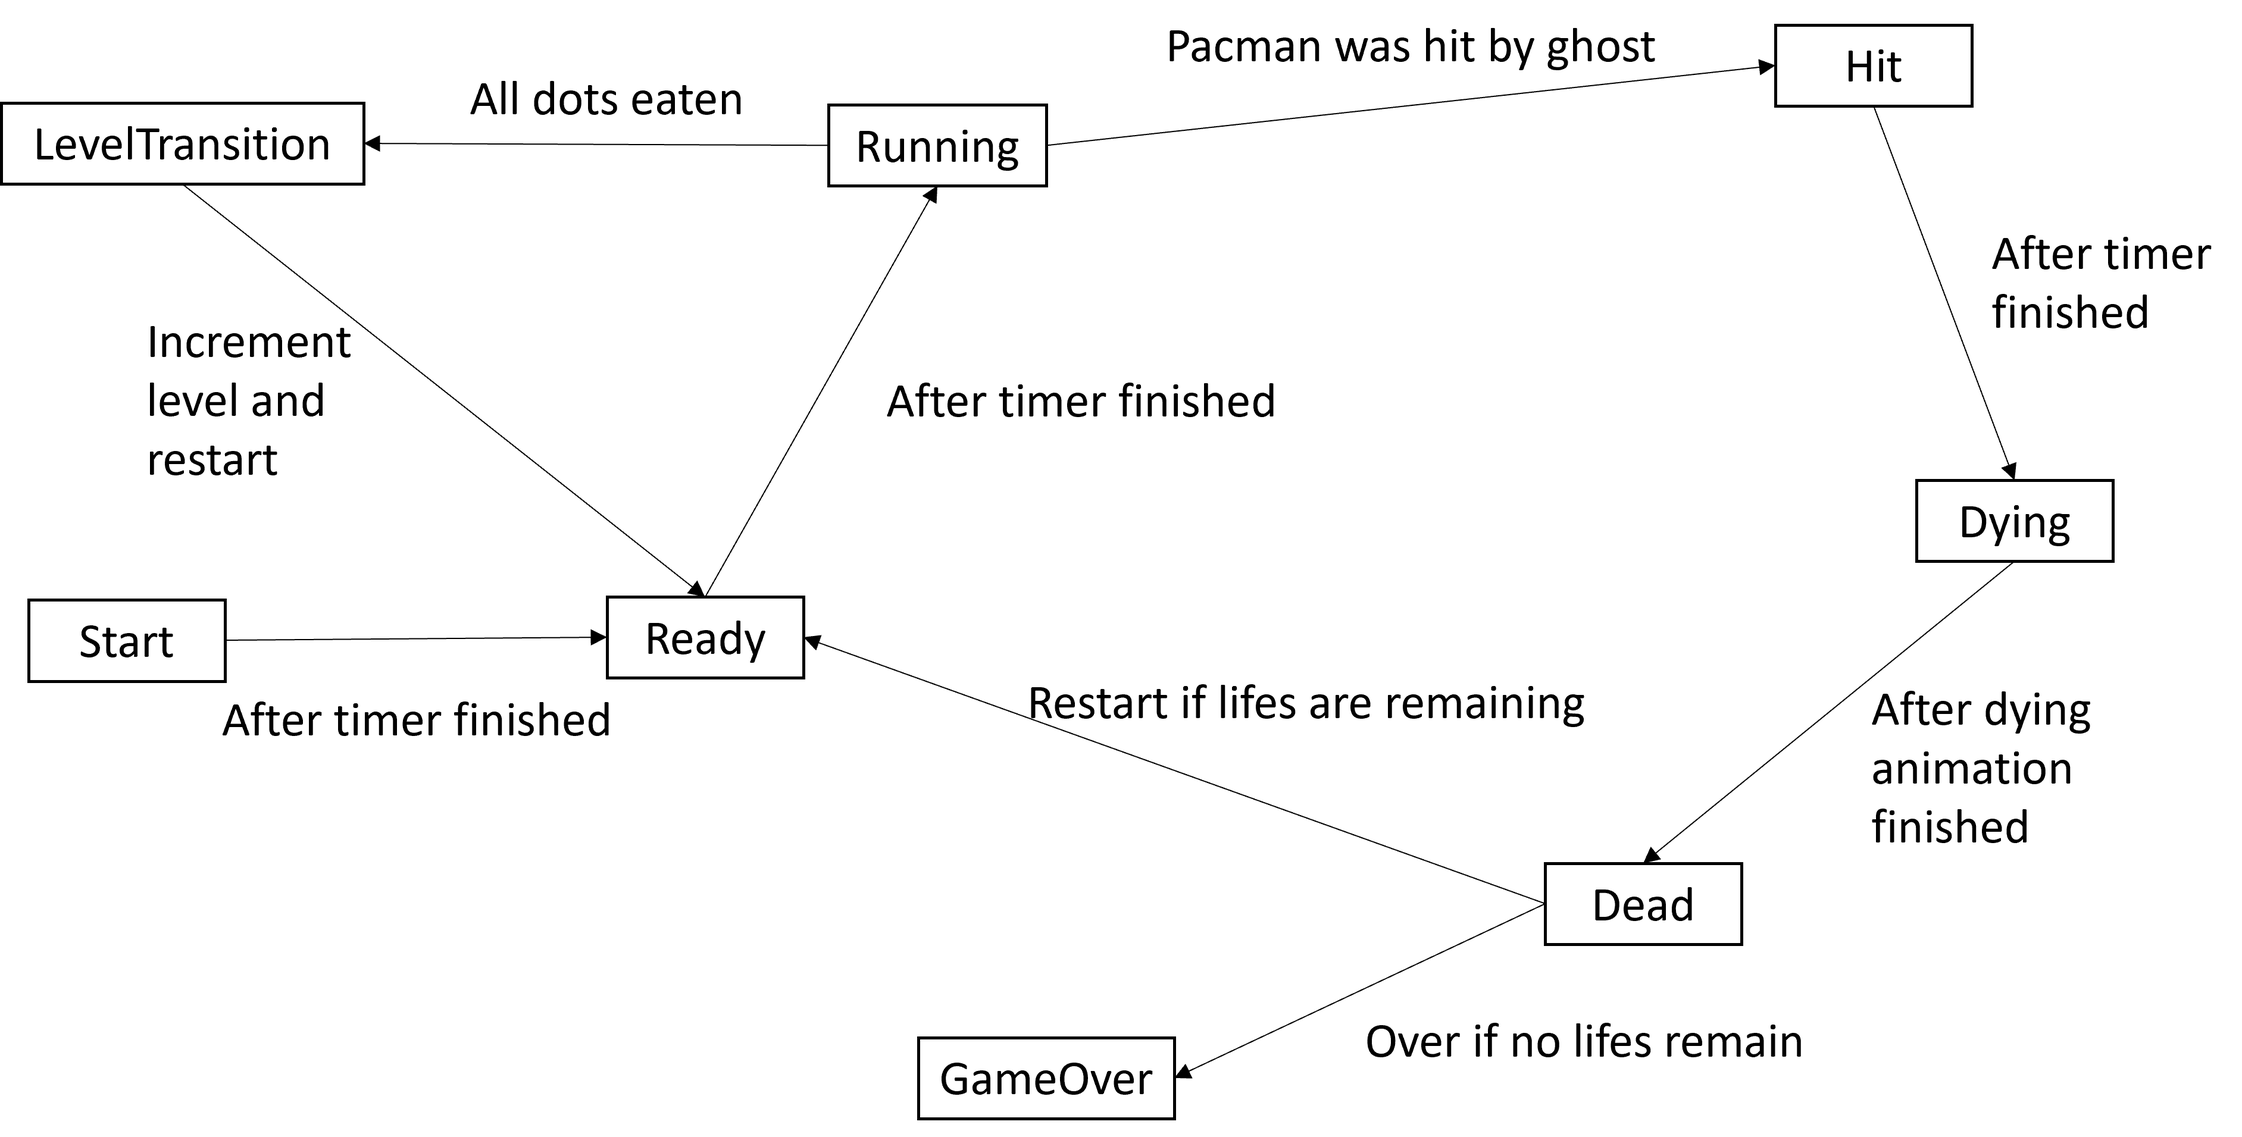
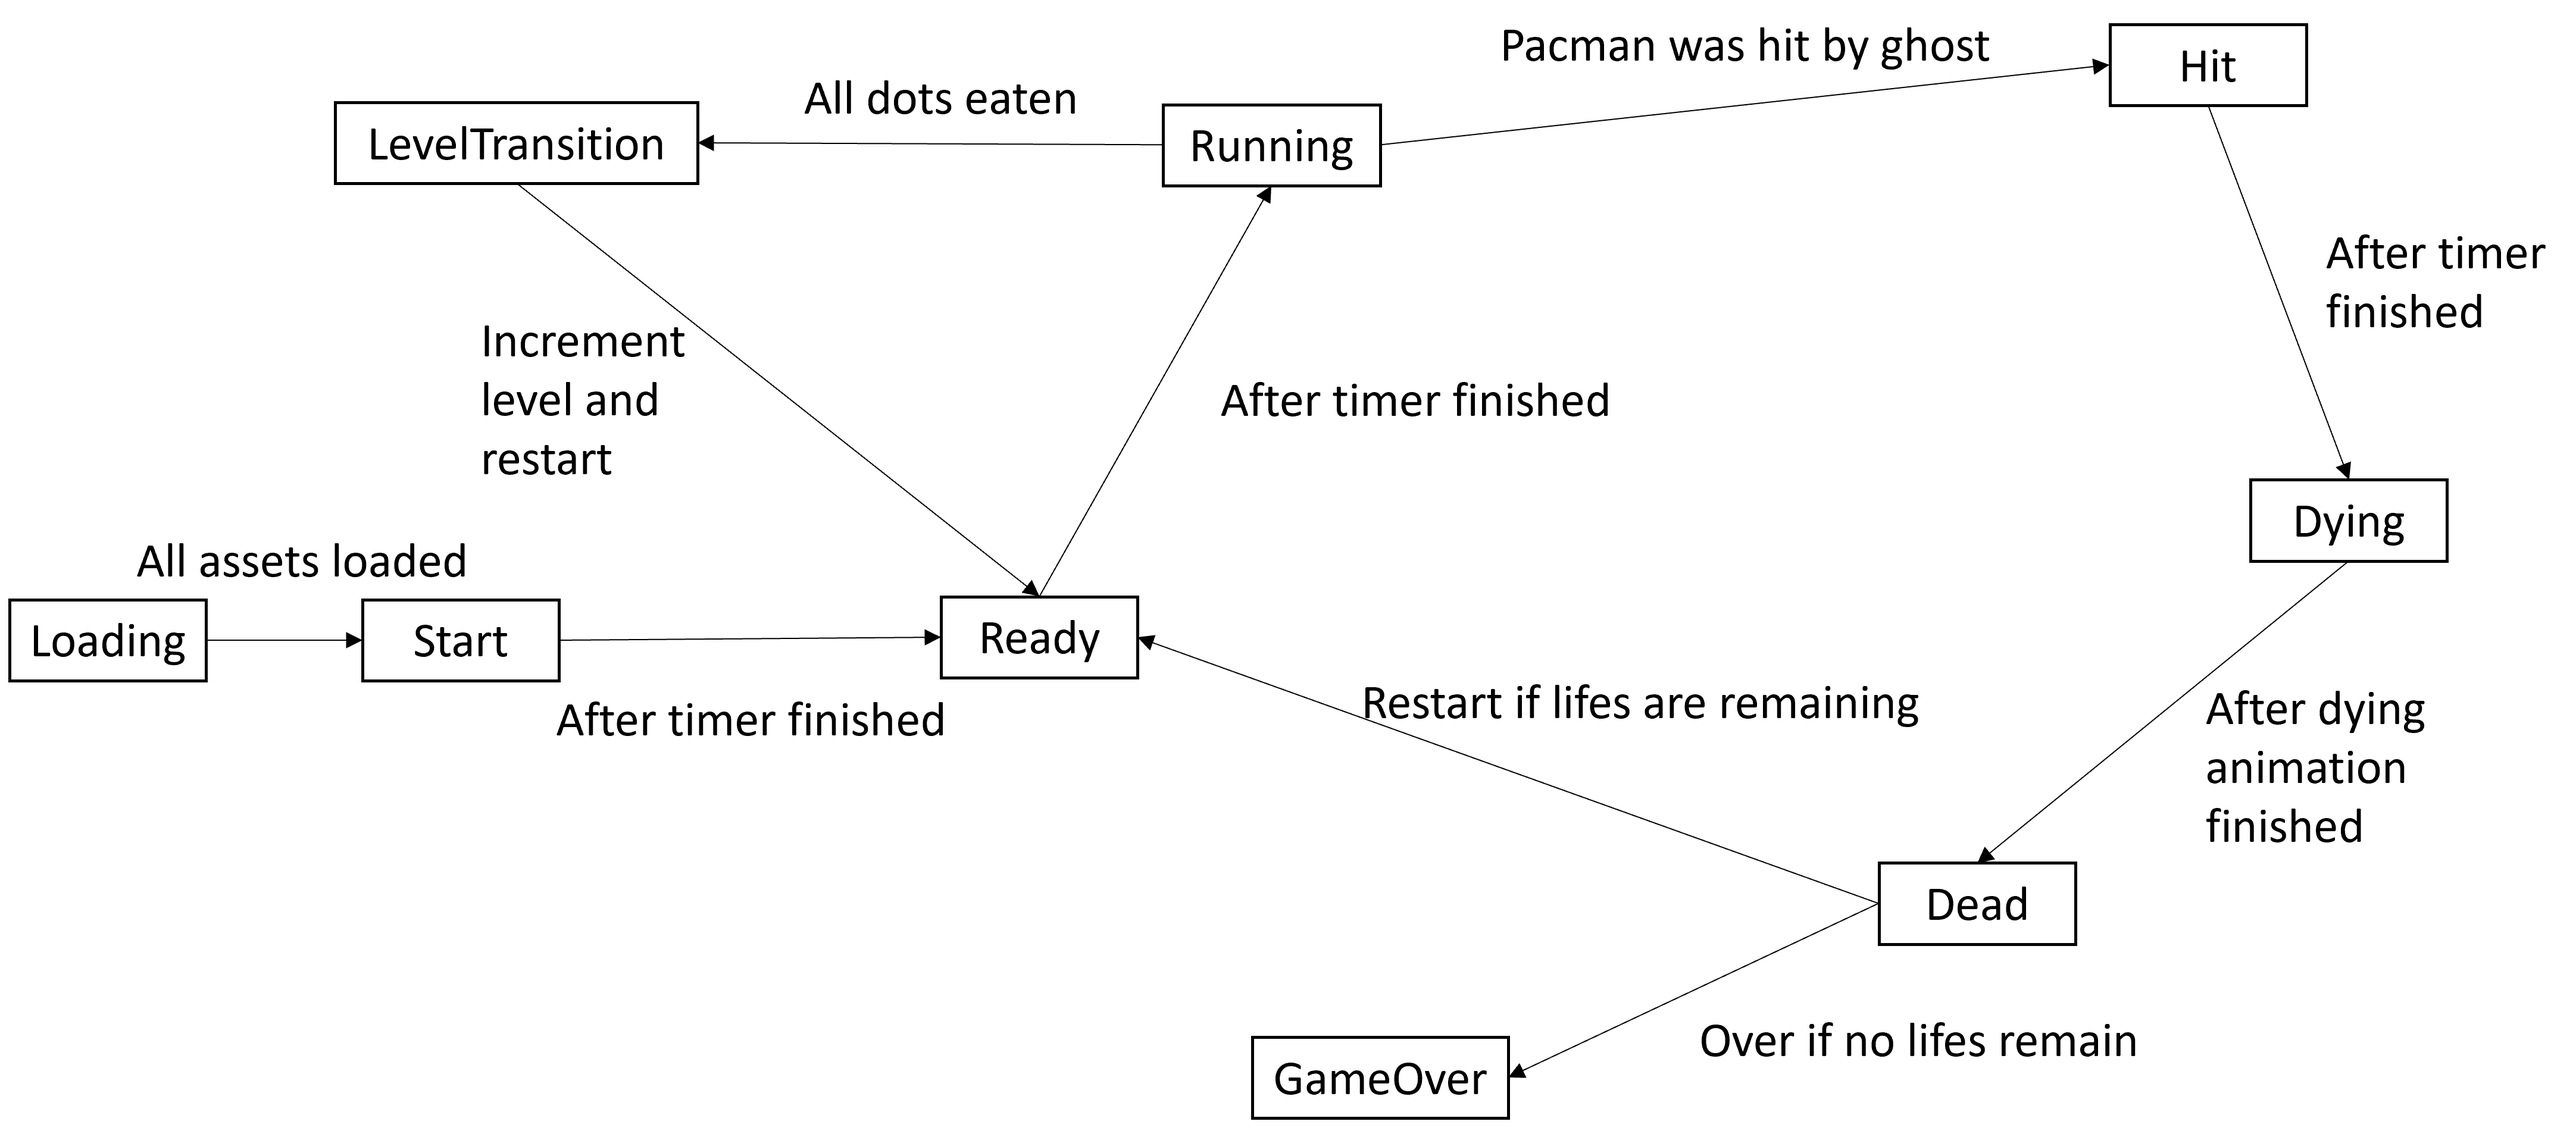
Added the GameAssets resource. It will hold every handle of any loaded asset and provides them when needed. Currently, only pacmans sprite sheets are registered.
Added the Loading lifecycle state. It runs before Start and simply loads all assets.

diff --git a/src/game_assets.rs b/src/game_assets.rs
@@ -1,0 +1,150 @@
+use std::collections::HashMap;
+use bevy::asset::{Asset, HandleId, LoadState};
+use bevy::prelude::*;
+use crate::life_cycle::LifeCycle::Loading;
+
+pub const PACMAN_WALKING_UP: &'static str = "textures/pacman/pacman_walking_up.sheet.png";
+pub const PACMAN_WALKING_DOWN: &'static str = "textures/pacman/pacman_walking_down.sheet.png";
+pub const PACMAN_WALKING_LEFT: &'static str = "textures/pacman/pacman_walking_left.sheet.png";
+pub const PACMAN_WALKING_RIGHT: &'static str = "textures/pacman/pacman_walking_right.sheet.png";
+pub const PACMAN_DYING: &'static str = "textures/pacman/pacman_dying.sheet.png";
+
+pub struct GameAssetsPlugin;
+
+impl Plugin for GameAssetsPlugin {
+    fn build(&self, app: &mut App) {
+        app
+            .add_event::<EAllAssetsLoaded>()
+            .add_system_set(
+                SystemSet::on_enter(Loading).with_system(create_game_assets)
+            )
+            .add_system_set(
+                SystemSet::on_update(Loading).with_system(notify_when_all_assets_loaded)
+            )
+        ;
+    }
+}
+
+/// Fired when all assets were successfully loaded
+pub struct EAllAssetsLoaded;
+
+/// Resource that holds handles for all assets used in the game.
+pub struct GameAssets {
+    handles: HashMap<String, HandleUntyped>,
+}
+
+impl GameAssets {
+    pub fn from_handles<H, S>(handles: H) -> Self
+        where H: IntoIterator<Item=(S, HandleUntyped)>, S: ToString {
+        GameAssets {
+            handles: handles.into_iter().map(|(key, h)| (key.to_string(), h)).collect()
+        }
+    }
+
+    pub fn get_handle<S: ToString, T: Asset>(&self, key: S) -> Handle<T> {
+        self.handles.get(&key.to_string()).expect("the requested handle should be registered").clone().typed()
+    }
+
+    pub fn id_iter<'a>(&'a self) -> impl IntoIterator<Item=HandleId> + 'a {
+        self.handles.values().map(|handle| handle.id)
+    }
+}
+
+/// Load all required game assets here.
+///
+/// TODO: reading the whole asset folder might be easier, but the related method from the asset server (load_folder) does not return the paths of the
+///  loaded assets. And loading from a directory directly does not work in WASM.
+fn create_game_assets(
+    mut commands: Commands,
+    asset_server: Res<AssetServer>
+) {
+    commands.insert_resource(GameAssets::from_handles([
+        load(PACMAN_WALKING_UP, &asset_server),
+        load(PACMAN_WALKING_DOWN, &asset_server),
+        load(PACMAN_WALKING_LEFT, &asset_server),
+        load(PACMAN_WALKING_RIGHT, &asset_server),
+        load(PACMAN_DYING, &asset_server),
+    ]))
+}
+
+fn load<S: ToString>(key: S, asset_server: &AssetServer) -> (S, HandleUntyped) {
+    let handle = asset_server.load_untyped(&key.to_string());
+    (key, handle)
+}
+
+fn notify_when_all_assets_loaded(
+    asset_server: Res<AssetServer>,
+    game_assets: Res<GameAssets>,
+    mut event_writer: EventWriter<EAllAssetsLoaded>
+) {
+    match asset_server.get_group_load_state(game_assets.id_iter()) {
+        LoadState::Failed => panic!("some assets failed loading, abort"),
+        LoadState::Loaded => event_writer.send(EAllAssetsLoaded),
+        _ => ()
+    }
+}
+
+#[cfg(test)]
+mod tests {
+    use bevy::asset::HandleId;
+    use bevy::prelude::*;
+    use crate::game_assets::GameAssets;
+    use crate::spritesheet::SpriteSheet;
+
+    #[test]
+    pub fn can_be_created_from_iterator_of_keys_and_untyped_handles() {
+        let handles = [
+            ("my_image", HandleUntyped::weak(HandleId::random::<Image>())),
+            ("my_font", HandleUntyped::weak(HandleId::random::<Font>())),
+            ("my_sheet", HandleUntyped::weak(HandleId::random::<SpriteSheet>())),
+        ];
+        let num_handles = handles.len();
+
+        let assets = GameAssets::from_handles(handles);
+        assert_eq!(assets.handles.len(), num_handles)
+    }
+
+    #[test]
+    pub fn a_registered_handle_can_be_retrieved() {
+        let handle = Handle::weak(HandleId::random::<Image>());
+        let key = "my_image";
+        let assets = GameAssets::from_handles(Some((key, handle.clone_untyped())));
+
+        let image_handle: Handle<Image> = assets.get_handle(key);
+
+        assert_eq!(handle, image_handle)
+    }
+
+    #[test]
+    #[should_panic]
+    pub fn retrieving_an_unregistered_handle_panics() {
+        let handle: Handle<Image> = Handle::weak(HandleId::random::<Image>());
+        let assets = GameAssets::from_handles(Some(("my_image", handle.clone_untyped())));
+
+        assets.get_handle::<_, Image>("not_my_image");
+    }
+
+    #[test]
+    pub fn all_handle_ids_can_be_retrieved_as_an_iterator() {
+        let handle_ids = [
+            HandleId::random::<Image>(),
+            HandleId::random::<Font>(),
+            HandleId::random::<SpriteSheet>(),
+        ];
+
+        let handles = [
+            ("my_image", HandleUntyped::weak(handle_ids[0])),
+            ("my_font", HandleUntyped::weak(handle_ids[1])),
+            ("my_sheet", HandleUntyped::weak(handle_ids[2])),
+        ];
+
+        let assets = GameAssets::from_handles(handles);
+
+        let retrieved_ids = assets.id_iter().into_iter().collect::<Vec<_>>();
+
+        assert_eq!(handle_ids.len(), retrieved_ids.len());
+        retrieved_ids.into_iter().for_each(|id| {
+            assert!(handle_ids.contains(&id))
+        })
+    }
+}

diff --git a/src/pacman/textures.rs b/src/pacman/textures.rs
@@ -4,6 +4,8 @@ use crate::animation::{Animation, Animations};
 use crate::pacman::Pacman;
 use crate::common::Direction;
 use crate::common::Direction::*;
+use crate::game_assets::{GameAssets, PACMAN_DYING, PACMAN_WALKING_DOWN, PACMAN_WALKING_LEFT, PACMAN_WALKING_RIGHT, PACMAN_WALKING_UP};
+use crate::spritesheet::SpriteSheet;
 
 pub(in crate::pacman) fn update_pacman_appearance(
     mut query: Query<(&Direction, &mut Animations), With<Pacman>>
@@ -19,40 +21,38 @@ pub(in crate::pacman) fn update_pacman_appearance(
 }
 
 pub(in crate::pacman) fn create_pacman_animations(
-    asset_server: &AssetServer,
+    game_assets: &GameAssets
 ) -> Animations {
     Animations::new(
         [
-            ("eating_left", create_eating_animation(asset_server, Left)),
-            ("eating_right", create_eating_animation(asset_server, Right)),
-            ("eating_up", create_eating_animation(asset_server, Up)),
-            ("eating_down", create_eating_animation(asset_server, Down)),
-            ("dying", create_dying_animation(asset_server))
+            ("eating_left", create_eating_animation(game_assets.get_handle(PACMAN_WALKING_LEFT))),
+            ("eating_right", create_eating_animation(game_assets.get_handle(PACMAN_WALKING_RIGHT))),
+            ("eating_up", create_eating_animation(game_assets.get_handle(PACMAN_WALKING_UP))),
+            ("eating_down", create_eating_animation(game_assets.get_handle(PACMAN_WALKING_DOWN))),
+            ("dying", create_dying_animation(game_assets.get_handle(PACMAN_DYING)))
         ],
         "eating_up",
     )
 }
 
 fn create_eating_animation(
-    asset_server: &AssetServer,
-    direction: Direction,
+    sheet_handle: Handle<SpriteSheet>,
 ) -> Animation {
-    let direction = direction.to_string();
     Animation::from_sprite_sheet(
         0.2,
         true,
         4,
-        asset_server.load(&format!("textures/pacman/pacman_walking_{direction}.sheet.png"))
+        sheet_handle
     )
 }
 
 fn create_dying_animation(
-    asset_server: &AssetServer,
+    sheet_handle: Handle<SpriteSheet>,
 ) -> Animation {
     Animation::from_sprite_sheet(
         2.0,
         false,
         12,
-        asset_server.load("textures/pacman/pacman_dying.sheet.png"),
+        sheet_handle,
     )
 }

diff --git a/src/life_cycle.rs b/src/life_cycle.rs
@@ -2,11 +2,13 @@ use bevy::prelude::*;
 use crate::pacman::{EPacmanDead};
 use LifeCycle::*;
 use crate::edibles::EAllEdiblesEaten;
+use crate::game_assets::EAllAssetsLoaded;
 use crate::interactions::EPacmanHit;
 use crate::lives::Life;
 
 #[derive(Clone, Eq, PartialEq, Hash, Debug)]
 pub enum LifeCycle {
+    Loading,
     Start,
     Ready,
     Running,
@@ -22,7 +24,10 @@ pub struct GameStatePlugin;
 impl Plugin for GameStatePlugin {
     fn build(&self, app: &mut App) {
         app
-            .add_state(Start)
+            .add_state(Loading)
+            .add_system_set(
+                SystemSet::on_update(Loading).with_system(start_game_when_all_assets_loaded)
+            )
             .add_system_set(
                 SystemSet::on_enter(Start).with_system(start_state_timer)
             )
@@ -69,6 +74,15 @@ impl Plugin for GameStatePlugin {
 /// handle these states
 #[derive(Deref, DerefMut)]
 struct StateTimer(Timer);
+
+fn start_game_when_all_assets_loaded(
+    mut life_cycle: ResMut<State<LifeCycle>>,
+    mut event_reader: EventReader<EAllAssetsLoaded>
+) {
+    for _ in event_reader.iter() {
+        life_cycle.set(Start).unwrap()
+    }
+}
 
 fn start_state_timer(
     mut commands: Commands,

diff --git a/src/pacman/spawn.rs b/src/pacman/spawn.rs
@@ -2,6 +2,7 @@ use bevy::prelude::*;
 use crate::common::Direction::*;
 
 use crate::constants::PACMAN_DIMENSION;
+use crate::game_assets::GameAssets;
 use crate::is;
 use crate::level::Level;
 use crate::map::Element::PacManSpawn;
@@ -16,14 +17,14 @@ pub struct PacmanSpawn(Vec3);
 
 pub (in crate::pacman) fn spawn_pacman(
     mut commands: Commands,
-    asset_server: Res<AssetServer>,
+    game_assets: Res<GameAssets>,
     map: Res<Map>,
     level: Res<Level>,
     speed_by_level: Res<SpeedByLevel>
 ) {
     let pacman_spawn = PacmanSpawn(map.coordinates_between_positions_matching(is!(PacManSpawn)));
     let pacman_dimension = Vec2::new(PACMAN_DIMENSION, PACMAN_DIMENSION);
-    let animations = create_pacman_animations(&asset_server);
+    let animations = create_pacman_animations(&game_assets);
 
     commands.spawn()
         .insert_bundle(SpriteBundle {

diff --git a/src/main.rs b/src/main.rs
@@ -7,6 +7,7 @@ use pacman::PacmanPlugin;
 use crate::animation::AnimationPlugin;
 use crate::camera::CameraPlugin;
 use crate::edibles::EdiblePlugin;
+use crate::game_assets::GameAssetsPlugin;
 
 use crate::game_over_screen::GameOverScreenPlugin;
 use crate::life_cycle::GameStatePlugin;
@@ -50,6 +51,7 @@ mod ready_screen;
 mod game_over_screen;
 mod edibles;
 mod interactions;
+mod game_assets;
 
 fn main() {
     App::new()
@@ -63,6 +65,7 @@ fn main() {
         .insert_resource(ClearColor(Color::rgb(0.0, 0.0, 0.0)))
         .insert_resource(ImageSettings::default_nearest())
         .add_plugin(GameStatePlugin)
+        .add_plugin(GameAssetsPlugin)
         .add_plugin(AnimationPlugin)
         .add_plugin(CameraPlugin)
         .add_plugins(DefaultPlugins)
